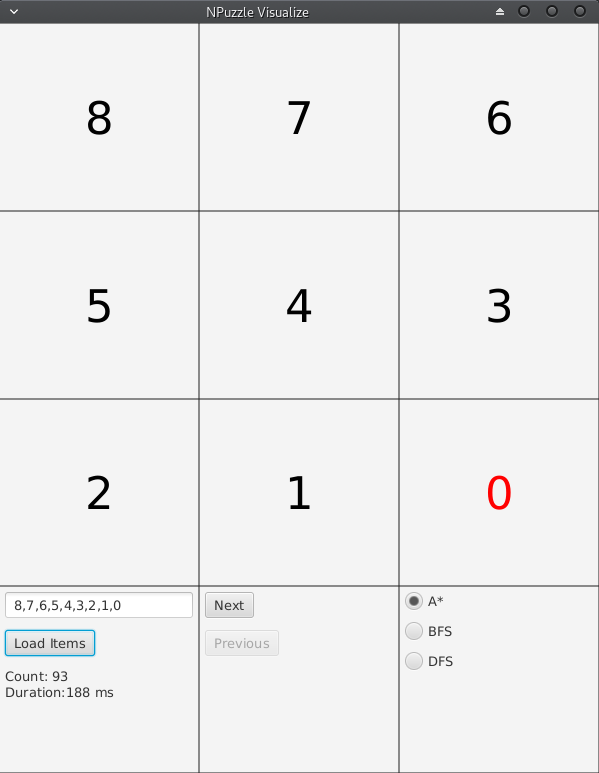
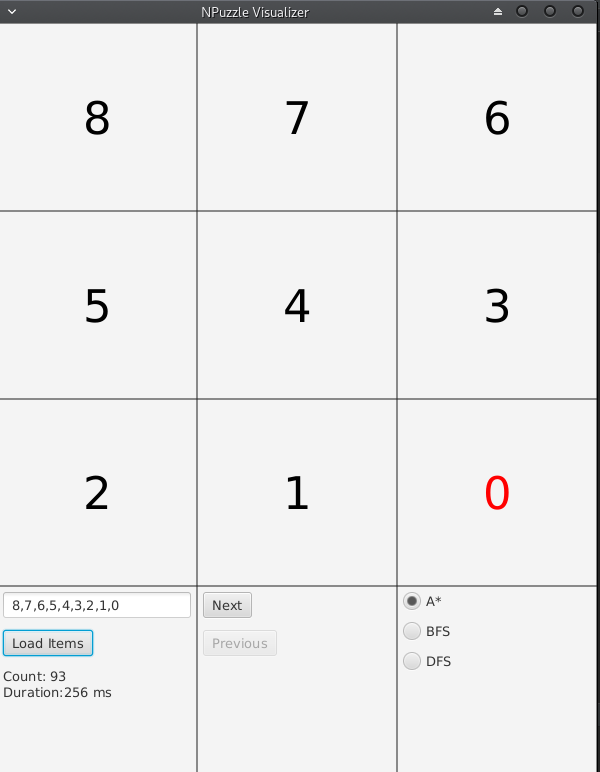
adjust names

diff --git a/src/npuzzle_gui/Main.java b/src/npuzzle_gui/Main.java
@@ -1,4 +1,4 @@
-package sample;
+package npuzzle_gui;
 
 import javafx.application.Application;
 import javafx.fxml.FXMLLoader;
@@ -10,8 +10,8 @@ public class Main extends Application {
 
     @Override
     public void start(Stage primaryStage) throws Exception{
-        Parent root = FXMLLoader.load(getClass().getResource("sample.fxml"));
-        primaryStage.setTitle("NPuzzle Visualize");
+        Parent root = FXMLLoader.load(getClass().getResource("npuzzle_gui.fxml"));
+        primaryStage.setTitle("NPuzzle Visualizer");
         primaryStage.setScene(new Scene(root, 600, 750));
         primaryStage.show();
     }

diff --git a/src/npuzzle_gui/Controller.java b/src/npuzzle_gui/Controller.java
@@ -1,4 +1,4 @@
-package sample;
+package npuzzle_gui;
 
 import javafx.fxml.FXML;
 import javafx.geometry.HPos;
